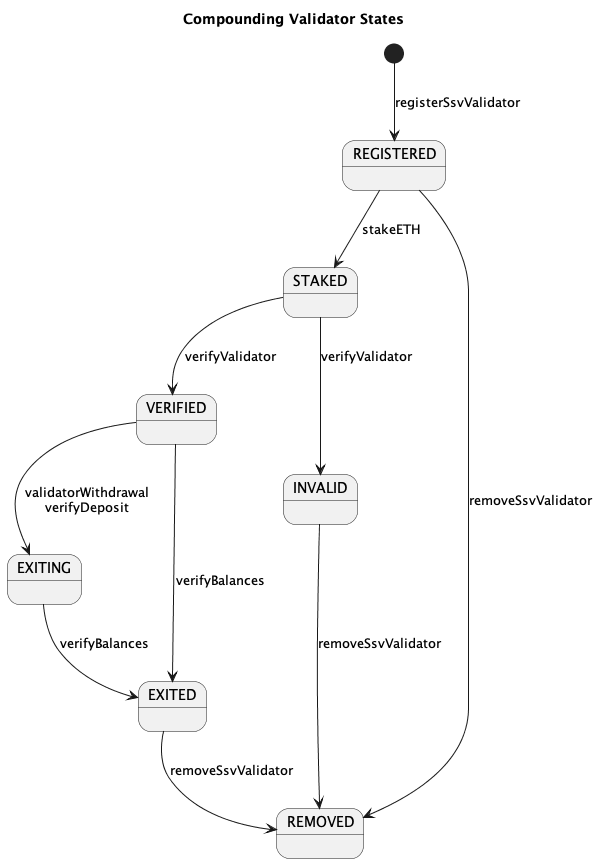
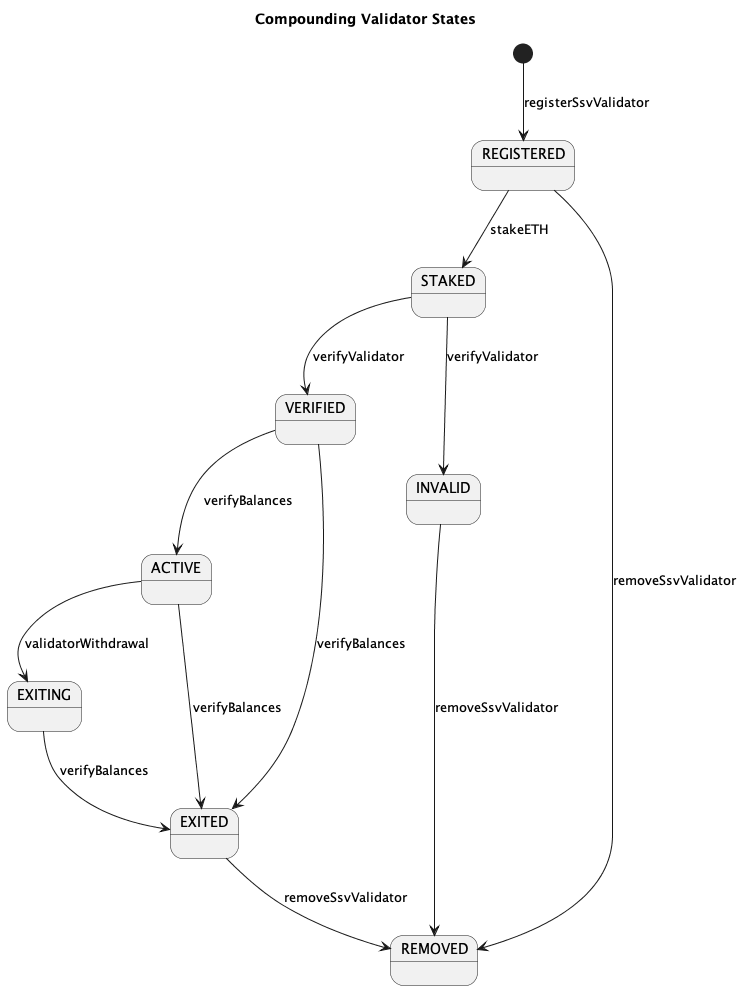
Fix to allow multiple full validator exits (#2667)
* Allow a validator full exit when it is already exiting

* Updated validator state diagram

diff --git a/contracts/test/strategies/compoundingSSVStaking.js b/contracts/test/strategies/compoundingSSVStaking.js
@@ -1100,7 +1100,65 @@ describe("Unit test: Compounding SSV Staking Strategy", function () {
       ).to.equal(5); // EXITING
     });
 
-    it("Should revert when validator's balance hasn't been confirmed to equal or surpass 32 ETH", async () => {
+    it("Should exit a validator that is already exiting", async () => {
+      const { validatorRegistrator, compoundingStakingSSVStrategy } = fixture;
+
+      // Third validator is later withdrawn later
+      await processValidator(testValidators[3], "VERIFIED_DEPOSIT");
+      await topUpValidator(
+        testValidators[3],
+        testValidators[3].depositProof.depositAmount - 1,
+        "VERIFIED_DEPOSIT"
+      );
+
+      const validatorBefore = await compoundingStakingSSVStrategy.validator(
+        testValidators[3].publicKeyHash
+      );
+      expect(validatorBefore.state).to.equal(3); // VERIFIED
+
+      // Validator has 1588.918094377 ETH
+      // assert balances so validator can be fully withdrawable
+      await assertBalances({
+        pendingDepositAmount: 0,
+        wethAmount: 0,
+        ethAmount: 0,
+        balancesProof: testBalancesProofs[1],
+        activeValidators: [2],
+      });
+
+      const validatorAfter = await compoundingStakingSSVStrategy.validator(
+        testValidators[3].publicKeyHash
+      );
+      expect(validatorAfter.state).to.equal(4); // ACTIVE
+
+      // First exit
+      await compoundingStakingSSVStrategy
+        .connect(validatorRegistrator)
+        .validatorWithdrawal(testValidators[3].publicKey, 0, {
+          value: 1,
+        });
+
+      expect(
+        (
+          await compoundingStakingSSVStrategy.validator(
+            testValidators[3].publicKeyHash
+          )
+        ).state
+      ).to.equal(5); // EXITING
+
+      // Second exit
+      const tx = await compoundingStakingSSVStrategy
+        .connect(validatorRegistrator)
+        .validatorWithdrawal(testValidators[3].publicKey, 0, {
+          value: 1,
+        });
+
+      await expect(tx)
+        .to.emit(compoundingStakingSSVStrategy, "ValidatorWithdraw")
+        .withArgs(testValidators[3].publicKeyHash, 0);
+    });
+
+    it("Should revert validator exit when validator's balance hasn't been confirmed to equal or surpass 32 ETH", async () => {
       const { validatorRegistrator, compoundingStakingSSVStrategy } = fixture;
 
       // Third validator is later withdrawn later
@@ -1114,6 +1172,26 @@ describe("Unit test: Compounding SSV Staking Strategy", function () {
       const tx = compoundingStakingSSVStrategy
         .connect(validatorRegistrator)
         .validatorWithdrawal(testValidators[3].publicKey, 0, {
+          value: 1,
+        });
+
+      await expect(tx).to.be.revertedWith("Validator not active/exiting");
+    });
+
+    it("Should revert partial withdrawal when validator's balance hasn't been confirmed to equal or surpass 32 ETH", async () => {
+      const { validatorRegistrator, compoundingStakingSSVStrategy } = fixture;
+
+      // Third validator is later withdrawn later
+      await processValidator(testValidators[3], "VERIFIED_DEPOSIT");
+      await topUpValidator(
+        testValidators[3],
+        testValidators[3].depositProof.depositAmount - 1,
+        "VERIFIED_DEPOSIT"
+      );
+
+      const tx = compoundingStakingSSVStrategy
+        .connect(validatorRegistrator)
+        .validatorWithdrawal(testValidators[3].publicKey, 1, {
           value: 1,
         });
 
